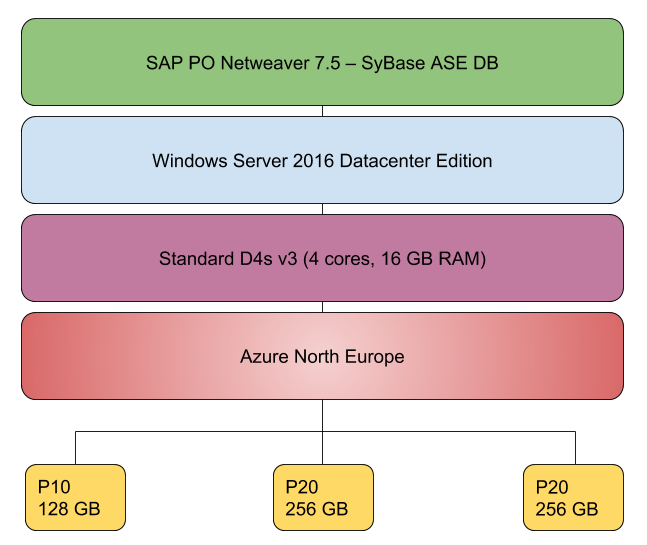
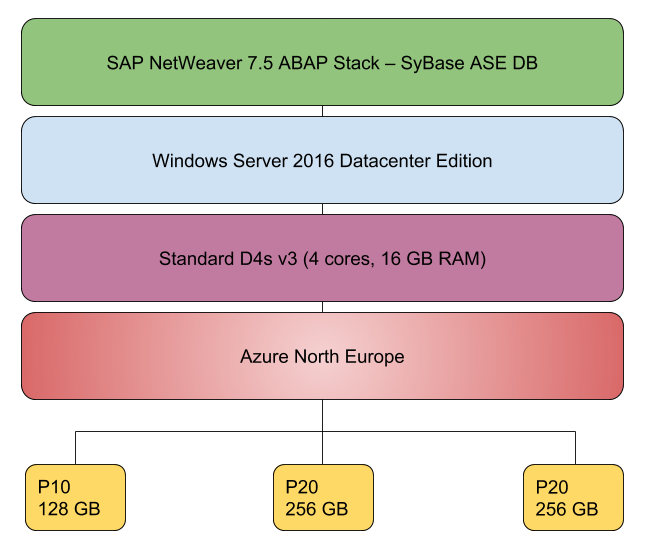
Revision of Draft (H1-H2)

Changed region(s): [[0.1546, 0.0936, 0.8346, 0.156]]

diff --git a/bachproef/methodologie.tex b/bachproef/methodologie.tex
@@ -354,7 +354,8 @@ Currently, the latest supported version is Windows Server 2019 \acrshort{ltsc}.
 
 \subsection{Technical specifications of the SAP environment}
 The proof of concept environment has been made using Microsoft Azure. 
-For the environment a \acrfull{po} system running Netweaver 7.5 on Windows Server 2016 Datacenter Edition using a SyBase ASE DB, will be used. 
+For the environment a system running Windows Server 2016 Datacenter Edition was used.
+The installation consisted of a SAP NetWeaver 7.5 ABAP Stack combined with a SyBase ASE database. 
 The architecture of the SAP environment can be seen in Figure \ref{fig:SAPInfra}.
 The installation and configuration of the SAP environment can be found in Appendix \ref{SAPConfig}.
 
@@ -372,7 +373,7 @@ This means that for non-clustered systems the in-place upgrade method is support
 However, the traditional method of migration, using a side-by-side migration, is still supported. 
 Many parts of the migration process that was described in Section \ref{sec:Migrating_the_OS} are applicable to the current environment. 
 Because of this reason, the migration of the SAP environment will be kept constraint and the focus will be on the additional chores that come with this migration.
-First of all, it was verified that Windows Server 2019 was supported using the SAP \acrshort{pam}, as can be seen in Figure \ref{fig:PAM}.
+First of all, it was verified that Windows Server 2019 was supported using the SAP \acrfull{pam}, as can be seen in Figure \ref{fig:PAM}.
 
 \begin{figure}[h]
     \captionsetup{width=0.8\linewidth}
@@ -412,7 +413,7 @@ The following process will verify the operation of the software solution.
 \clearpage
 
 \subsubsection{SAP migration}
-After verifying the operation of the software solution, the in-place upgrade will be performed as described in Subsection \ref{sssec:In-place_upgrade}. There for the \acrfull{vhd} was downloaded from Azure
+After verifying the operation of the software solution, the in-place upgrade will be performed as described in Subsection \ref{sssec:In-place_upgrade}. There for the \acrfull{vhd} was downloaded from Azure.
 The upgrade was performed through Hyper-V on the bare-metal server discussed in Section \ref{sec:Migrating_the_OS}.
 Alternatively, a side-by-side migration can be performed. 
 The side-by-side migration of the SAP environment can be divided into 4 parts:
@@ -425,7 +426,7 @@ The side-by-side migration of the SAP environment can be divided into 4 parts:
 \end{enumerate}
 The first and second part of this procedure were already described in Subsection \ref{sssec:Side-by-side_migration}.
 The installation and configuration has been described in Appendix \ref{SAPConfig}. 
-%TODO BACKUP RESTORE AND DECOMISSIONING
+For the third part to reduce the cut over time the backup and restore is used, followed by log shipping. When the last log is applied, the new system is ready to cut over. This way, the downtime is limited by the last log ship instead of the backup and restore of the database. 
 The final part is the deletion of the old \acrshort{vm} after verifying the operation of the new \acrshort{vm}, as shown in the following paragraph.
 
 \subsubsection{Verification}
@@ -434,7 +435,8 @@ After a successful migration, the operation of the SAP solution will be verified
 \subsection{Conclusion}
 After the migration of the SAP environment, it is clear that many of the aspects from the previous migration in Section \ref{sec:Migrating_the_OS} return. 
 With the migration of a software solution, it is important to verify that it supports the version of the \acrshort{os} to which will be migrated beforehand. 
-For SAP, this was verified using the SAP \acrshort{pam}.
+For SAP, this was verified using the SAP \acrfull{pam}.
+In the \acrfull{pam} all supported SAP solutions can be found.
 Here, all the different aspects that were installed, as described in Appendix \ref{SAPConfig}, were verified to be supported for operation on Windows Server 2019. 
 Verifying the operation of all the third-party applications that need to be installed requires additional research. 
 This section of the bachelor's thesis shows that no two migrations are the same. 

diff --git a/bachproef/SAPConfig.tex b/bachproef/SAPConfig.tex
@@ -4,27 +4,12 @@ The required Microsoft Azure \acrshort{vm} will be created as described in Appen
 The required Azure \acrshort{vm} is shown in Figure \ref{fig:SAPInfra}.
 
 \section{Installation of the SAP environment}
-The following components will be installed:
-
-\begin{itemize}
-    \item SAP NetWeaver 7.5
-    \item Adobe Document Services
-    \item Advanced Adapter Engine Extended
-    \item Application Server Java
-    \item BPM and Event Management
-    \item Composition Platform
-    \item EP Core
-    \item Enterprise Services Repository
-    \item PDF Export 
-\end{itemize}
+For the SAP environment a SAP NetWeaver 7.5 ABAP stack will be installed. 
 
 \subsection{Preconditions}
 \subsubsection{Server information}
 \begin{description}
-    \item[Local IP] 10.0.1.4
-    \item[Public IP] 40.68.22.199
-    \item[User] jensdufour
-    \item[Password] Bachelorproef2019
+    \item[Azure VM] Standard D4s v3
     \item[Ports] RDP
     \item[Windows Release] Windows Server 2016 Datacenter Edition
 \end{description}   
@@ -56,7 +41,7 @@ The following components will be installed:
         \captionsetup{width=0.8\linewidth}
         \includegraphics[width=0.9\linewidth]{img/Methodologie/Precondition2.png}
         \centering
-        \caption{Adjust visual effects for best performance}
+        \caption{Adjust visual effects}
     \end{subfigure}
     \begin{subfigure}{0.5\textwidth}
         \captionsetup{width=0.8\linewidth}
@@ -80,11 +65,11 @@ The following components will be installed:
     \end{subfigure}
 \end{figure}
 \begin{figure}[!htb]\ContinuedFloat
-    \begin{subfigure}{\textwidth}
+    \begin{subfigure}{0.5\textwidth}
         \captionsetup{width=0.8\linewidth}
         \includegraphics[width=0.9\linewidth]{img/Methodologie/Precondition6.png}
         \centering
-        \caption{Setting Virtual Host Names on Windows}
+        \caption{Setting Virtual Host Names}
     \end{subfigure}
     \caption[Preconditions SAP]{Preconditions for the installation of the SAP stack}
     \label{fig:Preconditions}
@@ -97,13 +82,13 @@ The following components will be installed:
         \captionsetup{width=0.8\linewidth}
         \includegraphics[width=0.9\linewidth]{img/Methodologie/SAP38.png}
         \centering
-        \caption{Extract the Software Provisioning Manager using 'SAPCAR'}
+        \caption{Extract the software using 'SAPCAR'}
     \end{subfigure}
     \begin{subfigure}{0.5\textwidth}
         \captionsetup{width=0.8\linewidth}
         \includegraphics[width=0.9\linewidth]{img/Methodologie/SAP37.png} 
         \centering
-        \caption{Start the Software Provisioning Manager}
+        \caption{Start the SPM}
     \end{subfigure}
 \end{figure}
 \begin{figure}[!htb]\ContinuedFloat
@@ -111,7 +96,7 @@ The following components will be installed:
         \captionsetup{width=0.8\linewidth}
         \includegraphics[width=0.9\linewidth]{img/Methodologie/SAP36.png}
         \centering
-        \caption{Login with administrator credentials}
+        \caption{Login as an administrator}
     \end{subfigure}
     \begin{subfigure}{0.5\textwidth}
         \captionsetup{width=0.8\linewidth}
@@ -125,13 +110,13 @@ The following components will be installed:
         \captionsetup{width=0.8\linewidth}
         \includegraphics[width=0.9\linewidth]{img/Methodologie/SAP34.png}
         \centering
-        \caption{Select the Custom Parameter Settings}
+        \caption{Select the Custom Parameter}
     \end{subfigure}
     \begin{subfigure}{0.5\textwidth}
         \captionsetup{width=0.8\linewidth}
         \includegraphics[width=0.9\linewidth]{img/Methodologie/SAP33.png} 
         \centering
-        \caption{Enter a SAP System ID and select the Destination Drive}
+        \caption{Enter the general SAP System Parameters}
     \end{subfigure}
 \end{figure}
 \begin{figure}[!htb]\ContinuedFloat

diff --git a/bachproef/Migration.tex b/bachproef/Migration.tex
@@ -11,7 +11,7 @@
 		\captionsetup{width=0.8\linewidth}
 		\includegraphics[width=0.9\linewidth]{img/Methodologie/Migration1.png} 
 		\centering
-		\caption{Configure the connection to the internal network}
+		\caption{Configure the network connection}
 	\end{subfigure}
 \end{figure}
 \begin{figure}[!htb]\ContinuedFloat
@@ -19,7 +19,7 @@
 		\captionsetup{width=0.8\linewidth}
 		\includegraphics[width=0.9\linewidth]{img/Methodologie/Migration2.png}
 		\centering
-		\caption{Install an \acrshort{os} from a bootable image file}
+		\caption{Install an \acrshort{os} from a bootable image}
 	\end{subfigure}
 	\begin{subfigure}{0.5\textwidth}
 		\captionsetup{width=0.8\linewidth}
@@ -42,7 +42,7 @@
 		\captionsetup{width=0.8\linewidth}
 		\includegraphics[width=0.9\linewidth]{img/Methodologie/Migration5.png} 
 		\centering
-		\caption{Provide a Windows Server 2019 product key}
+		\caption{Provide the product key}
 	\end{subfigure}
 \end{figure}
 \begin{figure}[!htb]\ContinuedFloat
@@ -56,7 +56,7 @@
 		\captionsetup{width=0.8\linewidth}
 		\includegraphics[width=0.9\linewidth]{img/Methodologie/Migration7.png} 
 		\centering
-		\caption{Agree with the license terms}
+		\caption{Agree with the notices and license terms}
 	\end{subfigure}
 \end{figure}
 \begin{figure}[!htb]\ContinuedFloat
@@ -70,7 +70,7 @@
 		\captionsetup{width=0.8\linewidth}
 		\includegraphics[width=0.9\linewidth]{img/Methodologie/Migration9.png} 
 		\centering	
-		\caption{Choose and verify a strong and secure password}
+		\caption{Customize the final settings}
 	\end{subfigure}
 	\caption[Installing Windows Server]{Installing Windows Server 2019 Datacenter Edition on the \acrshort{vm}}
 	\label{fig:WSInstallation}
@@ -113,7 +113,7 @@
 		\captionsetup{width=0.8\linewidth}
 		\includegraphics[width=0.9\linewidth]{img/Methodologie/Migration15.png}
 		\centering
-		\caption{Start the roles and services installation process}
+		\caption{Start the roles and features wizard}
 	\end{subfigure}
 	\begin{subfigure}{0.5\textwidth}
 		\captionsetup{width=0.8\linewidth}
@@ -133,7 +133,7 @@
 		\captionsetup{width=0.8\linewidth}
 		\includegraphics[width=0.9\linewidth]{img/Methodologie/Migration18.png} 
 		\centering
-		\caption{After installation promote the server to \acrshort{dc}}
+		\caption{Promote the server to \acrshort{dc}}
 	\end{subfigure}
 \end{figure}
 \begin{figure}[!htb]\ContinuedFloat
@@ -161,7 +161,7 @@
 		\captionsetup{width=0.8\linewidth}
 		\includegraphics[width=0.9\linewidth]{img/Methodologie/Migration22.png} 
 		\centering	
-		\caption{Verifying and proceed with the promotion}
+		\caption{Verifying and continue the promotion}
 	\end{subfigure}
 	\caption[\acrshort{dc} promotion]{Promoting the server to \acrshort{dc}}
 	\label{fig:Promotion}
@@ -182,7 +182,7 @@
 		\captionsetup{width=0.8\linewidth}
 		\includegraphics[width=0.9\linewidth]{img/Methodologie/Migration24.png}
 		\centering
-		\caption{DNS is automatically replicated from the previous \acrshort{dc}}
+		\caption{DNS is automatically replicated}
 	\end{subfigure}
 	\begin{subfigure}{0.5\textwidth}
 		\captionsetup{width=0.8\linewidth}
@@ -242,7 +242,7 @@
 		\captionsetup{width=0.8\linewidth}
 		\includegraphics[width=0.9\linewidth]{img/Methodologie/Migration33.png}
 		\centering
-		\caption{Uncheck the removal of the DNS Delegation}
+		\caption{Uncheck removal of the DNS Delegation}
 	\end{subfigure}
 	\begin{subfigure}{0.5\textwidth}
 		\captionsetup{width=0.8\linewidth}

diff --git a/bachproef/samenvatting.tex b/bachproef/samenvatting.tex
@@ -6,8 +6,8 @@
 \selectlanguage{dutch}
 \chapter*{Samenvatting}
 Uit een studie is gebleken dat in 2016, 17.9\% en 45.4\% van de servers, in het Spiceworks-netwerk, respectievelijk Windows Server 2003 en Windows Server 2008 gebruikten. \autocite{Tsai2016} 
-Deze worden officieel niet langer ondersteund door Microsoft en de uitgebreide ondersteuning voor de laatste loopt ten einde januari 2020. 
-Dit betekent dat een grootschalige update naar een nieuwere versie een vereiste wordt voor een groot aantal organisaties. 
+Deze worden niet langer ondersteund door Microsoft en de uitgebreide ondersteuning voor de laatste loopt ten einde januari 2020. 
+Dit betekent dat een grootschalige update naar een nieuwere versie een vereiste wordt voor een aanzienlijk aantal organisaties. 
 In deze bachelorproef zijn de voor- en nadelen van een migratie naar Windows Server 2019 onderzocht. 
 Er is rekening gehouden met de vier hoofdthema's waarin de nieuwe functies zijn onderverdeeld. 
 De migratie tussen de twee versies wordt vervolgens uitgevoerd aan de hand van een in-place upgrade en een side-by-side migratie, met Windows Server 2016 als startpunt. 
@@ -20,7 +20,7 @@ Dit vereist echter bijkomend onderzoek, zoals beschreven in deze bachelorproef.
 Opvallend is dat voor de migratie van andere softwarepakketten eveneens aanvullend onderzoek moet worden verricht. 
 Dit om, net als bij Windows Server 2019 en SAP, ervoor te zorgen dat alles voldoet aan de kwaliteitseisen die een organisatie stelt.
 Hierna werden de verschillende beschikbare base container images geanalyseerd. 
-Door een verschil in grote en performantie, ging de keuze naar de meest recente versie. 
+Door een verschil in grote en performantie ging de keuze naar de meest recente versie. 
 Dit door de additionele functies, die doorheen deze bachelorproef besproken worden, en de toevoeging van de nieuwe Windows base container image.
 Tot slot wordt er gekeken naar de toekomst van Windows Server. 
 Voornamelijk naar het gebruik van de cloud en de nieuwe functionaliteiten die hiermee gepaard gaan in \acrlong{wac}. 
@@ -30,7 +30,7 @@ Voornamelijk naar het gebruik van de cloud en de nieuwe functionaliteiten die hi
 %%---------- Engelse samenvatting -----------------------------------------------------
 \chapter*{\IfLanguageName{dutch}{Samenvatting}{Abstract}}
 A study showed that in 2016, 17.9\% and 45.4\% of servers, in the Spiceworks network, respectively used Windows Server 2003 and Windows Server 2008. \autocite{Tsai2016} 
-These are officially no longer supported by Microsoft and the extended support for the latter runs until the end of January 2020. 
+These are no longer supported by Microsoft and the extended support for the latter runs until the end of January 2020. 
 This means that a large-scale update to a newer version is becoming a requirement for many organizations. 
 In this bachelor's thesis, the advantages and disadvantages of migrating to Windows Server 2019, are investigated. 
 The four main themes, in which the new features of Windows Server 2019 are divided, were taken into consideration. 

diff --git a/bachproef/inleiding.tex b/bachproef/inleiding.tex
@@ -13,7 +13,7 @@ Therefore, asking how this can be done as efficient and cost-effective as possib
 \section{\IfLanguageName{dutch}{Probleemstelling}{Problem statement}}
 \label{sec:probleemstelling}
 Since the latest version of the Windows Server was released, Windows Server 2019, many organizations are willing to investigate a migration from previous versions of the \acrshort{os} in the nearby future. 
-delaware, one of these organizations, wants to research how these migrations would take place starting from Windows Server 2016 and how the migration can be achieved in an efficient and cost-effective way. 
+delaware, one of these organizations, wants to research how these migrations would take place starting from Windows Server 2016 and how they can be achieved in an efficient and cost-effective way. 
 
 \begin{table}[htb!]
 	\centering
@@ -25,7 +25,7 @@ delaware, one of these organizations, wants to research how these migrations wou
 			Windows Server 2016 Datacenter & 15/10/2016 & 11/01/2022 & 12/01/2027 &\\
 		\end{tabular}
 	\end{adjustbox}
-	\caption[\acrshort{eol} \acrshort{ws}2016]{\acrshort{eol} of Windows Server 2016}
+	\caption[\acrshort{eol} Windows Server 2016]{\acrshort{eol} of Windows Server 2016}
 	\scriptsize	
 	Adapted from \cite{MicrosoftEOL2019}
 	\label{tab:EOL2016}
@@ -47,7 +47,7 @@ The official support for both versions has already ended. The extended support f
 			Windows Server 2019 Datacenter & 13/11/2018 & 09/01/2024 & 09/01/2029 &\\
 		\end{tabular}
 	\end{adjustbox}
-	\caption[\acrshort{eol} \acrshort{ws}2019]{\acrshort{eol} of Windows Server 2019}
+	\caption[\acrshort{eol} Windows Server 2019]{\acrshort{eol} of Windows Server 2019}
 	\scriptsize	
 	Adapted from \cite{MicrosoftEOL2019}
 	\label{tab:EOL2019}

diff --git a/voorstel/voorstel-inhoud.tex b/voorstel/voorstel-inhoud.tex
@@ -56,7 +56,7 @@ Finally, the different Windows Base Container Images will be compared, both in t
 The goal at the end of the proof of concept is to make a reasoned decision between Windows Server 2016 and Windows Server 2019.
 %---------- Expected results ----------------------------------------------
 \section{Expected results}\label{sec:anticipated_results}
-It is expected that the proof of concept will demonstrate the advantages of the latest Windows Server and that the migration is an investment in the future. However, migrating an SAP will not yet be recommended due to the new nature of Windows Server 2019. Also, when looking at the Windows Base Container Images, the latest version will have the upper hand. 
+It is expected that the proof of concept will demonstrate the advantages of the latest Windows Server and that the migration is an investment in the future. However, migrating a SAP will not yet be recommended due to the new nature of Windows Server 2019. Also, when looking at the Windows Base Container Images, the latest version will have the upper hand. 
 %---------- Expected conclusion ----------------------------------------------
 \section{Expected conclusions}\label{sec:anticipated_conclusions}
 It is expected to conclude that migration from Windows Server 2016 to Windows Server 2019 is perfectly manageable, with a preference for a full migration,  however additional research will be necessary for each individual software solution. 

diff --git a/bachproef/conclusie.tex b/bachproef/conclusie.tex
@@ -7,7 +7,7 @@
 The final conclusion of this bachelor's thesis is that a migration to Windows Server 2019 is achievable.
 The latest version of the \acrshort{os} offers a smooth and manageable experience through the advancements made in the four key themes of Windows Server 2019. 
 The extended support till 2029 make it an ideal choice to future-proof any organization. 
-While a migration to Windows Server 2019 in an environment with a third-party application requires additional research, it was attainable for an SAP environment. 
+While a migration to Windows Server 2019 in an environment with a third-party application requires additional research, it was attainable for a SAP environment. 
 The migration from Windows Server 2016 to Windows Server 2019 is also feasible for any organization running an \acrshort{eol} \acrshort{os}, as expected with the latest version of the \acrshort{os}.
 This for either the general \acrshort{os} and the base container images.
 Windows Server 2019 offers a wide array of improvements in terms of security, hybrid cloud, application platform and the \acrfull{hci}.

diff --git a/bachproef/voorwoord.tex b/bachproef/voorwoord.tex
@@ -14,7 +14,7 @@ For the duration of this assignment, they were always there to answer the questi
 
 I would like to thank them. 
 Without them, this would not have been possible.
-Furthermore, I would like to give a special thanks to delaware and in especially to Tomas Castro and Jonas Decoster. 
+Furthermore, I would like to give a special thanks to delaware and especially to Tomas Castro and Jonas Decoster. 
 Without their effort, I would never have had the opportunity to do this research from their branch in Harbin, China.
 I would also like to thank Henry Hao and Cici Chen for their hospitality and guidance during my stay, it was an experience I will never forget and always be grateful for. 
 

diff --git a/bachproef/woordenlijst.tex b/bachproef/woordenlijst.tex
@@ -9,7 +9,6 @@
 \newacronym{vm}{VM}{Virtual Machine}
 \newacronym{wdatp}{WDATP}{Windows Defender Advanced Threat Protection}
 \newacronym{roi}{ROI}{Return on Investment}
-\newacronym{ws}{WS}{Windows Server}
 \newacronym{dtls}{DTLS}{Datagram Transport Layer Security} 
 \newacronym{tls}{TLS}{Transport Layer Security} 
 \newacronym{hgs}{HGS}{Host Guardian Service}
@@ -39,5 +38,4 @@
 \newacronym{sdk}{SDK}{Software Development Kit}
 \newacronym{sles}{SLES}{SUSE Linux Enterprise Server}
 \newacronym{sccm}{SCCM}{System Center Configuration Manager}
-\newacronym{po}{PO}{Process Orchestrator}
 \newacronym{vhd}{VHD}{Virtual Hard Disk}
